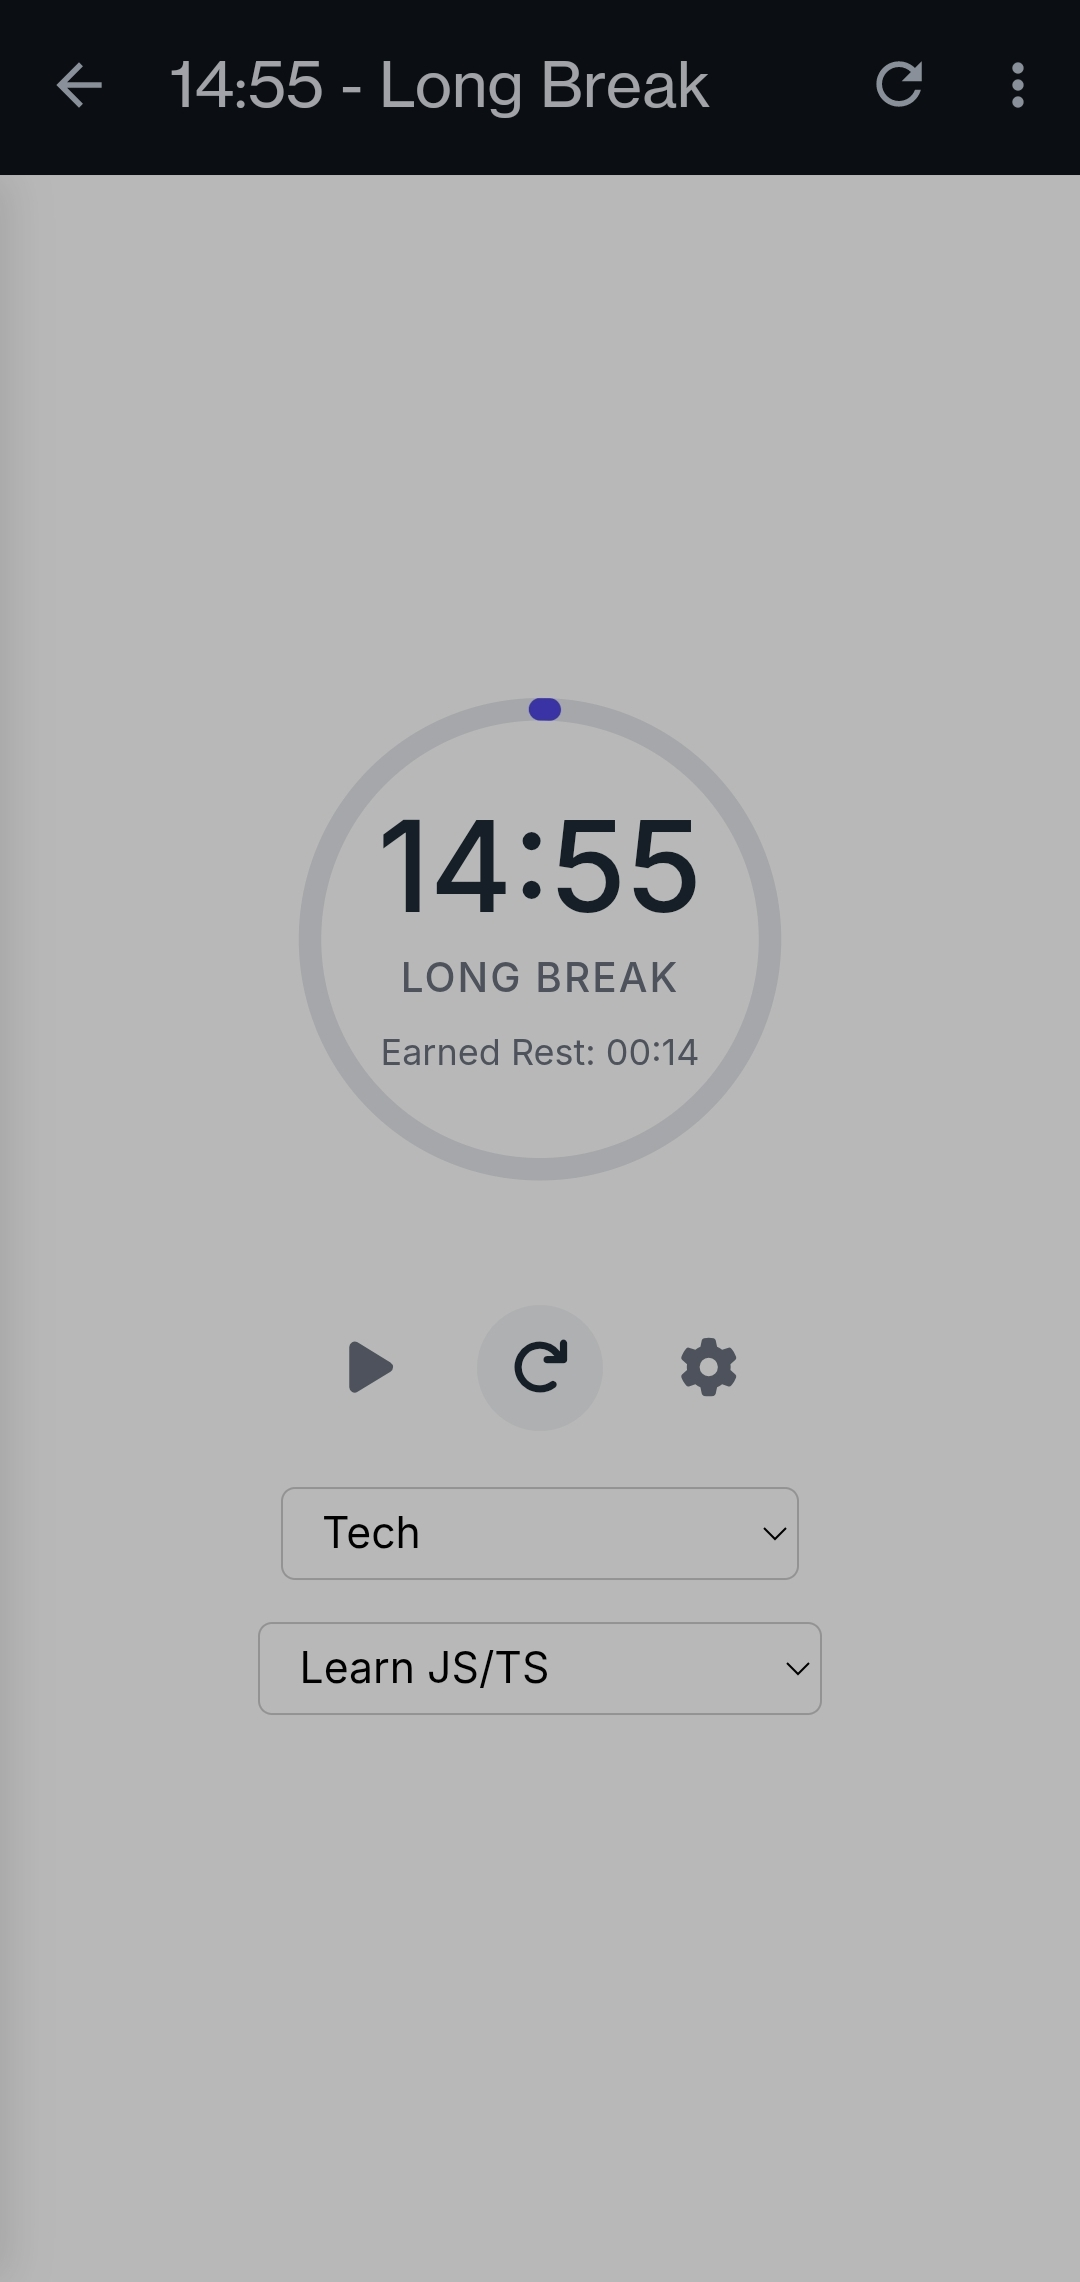
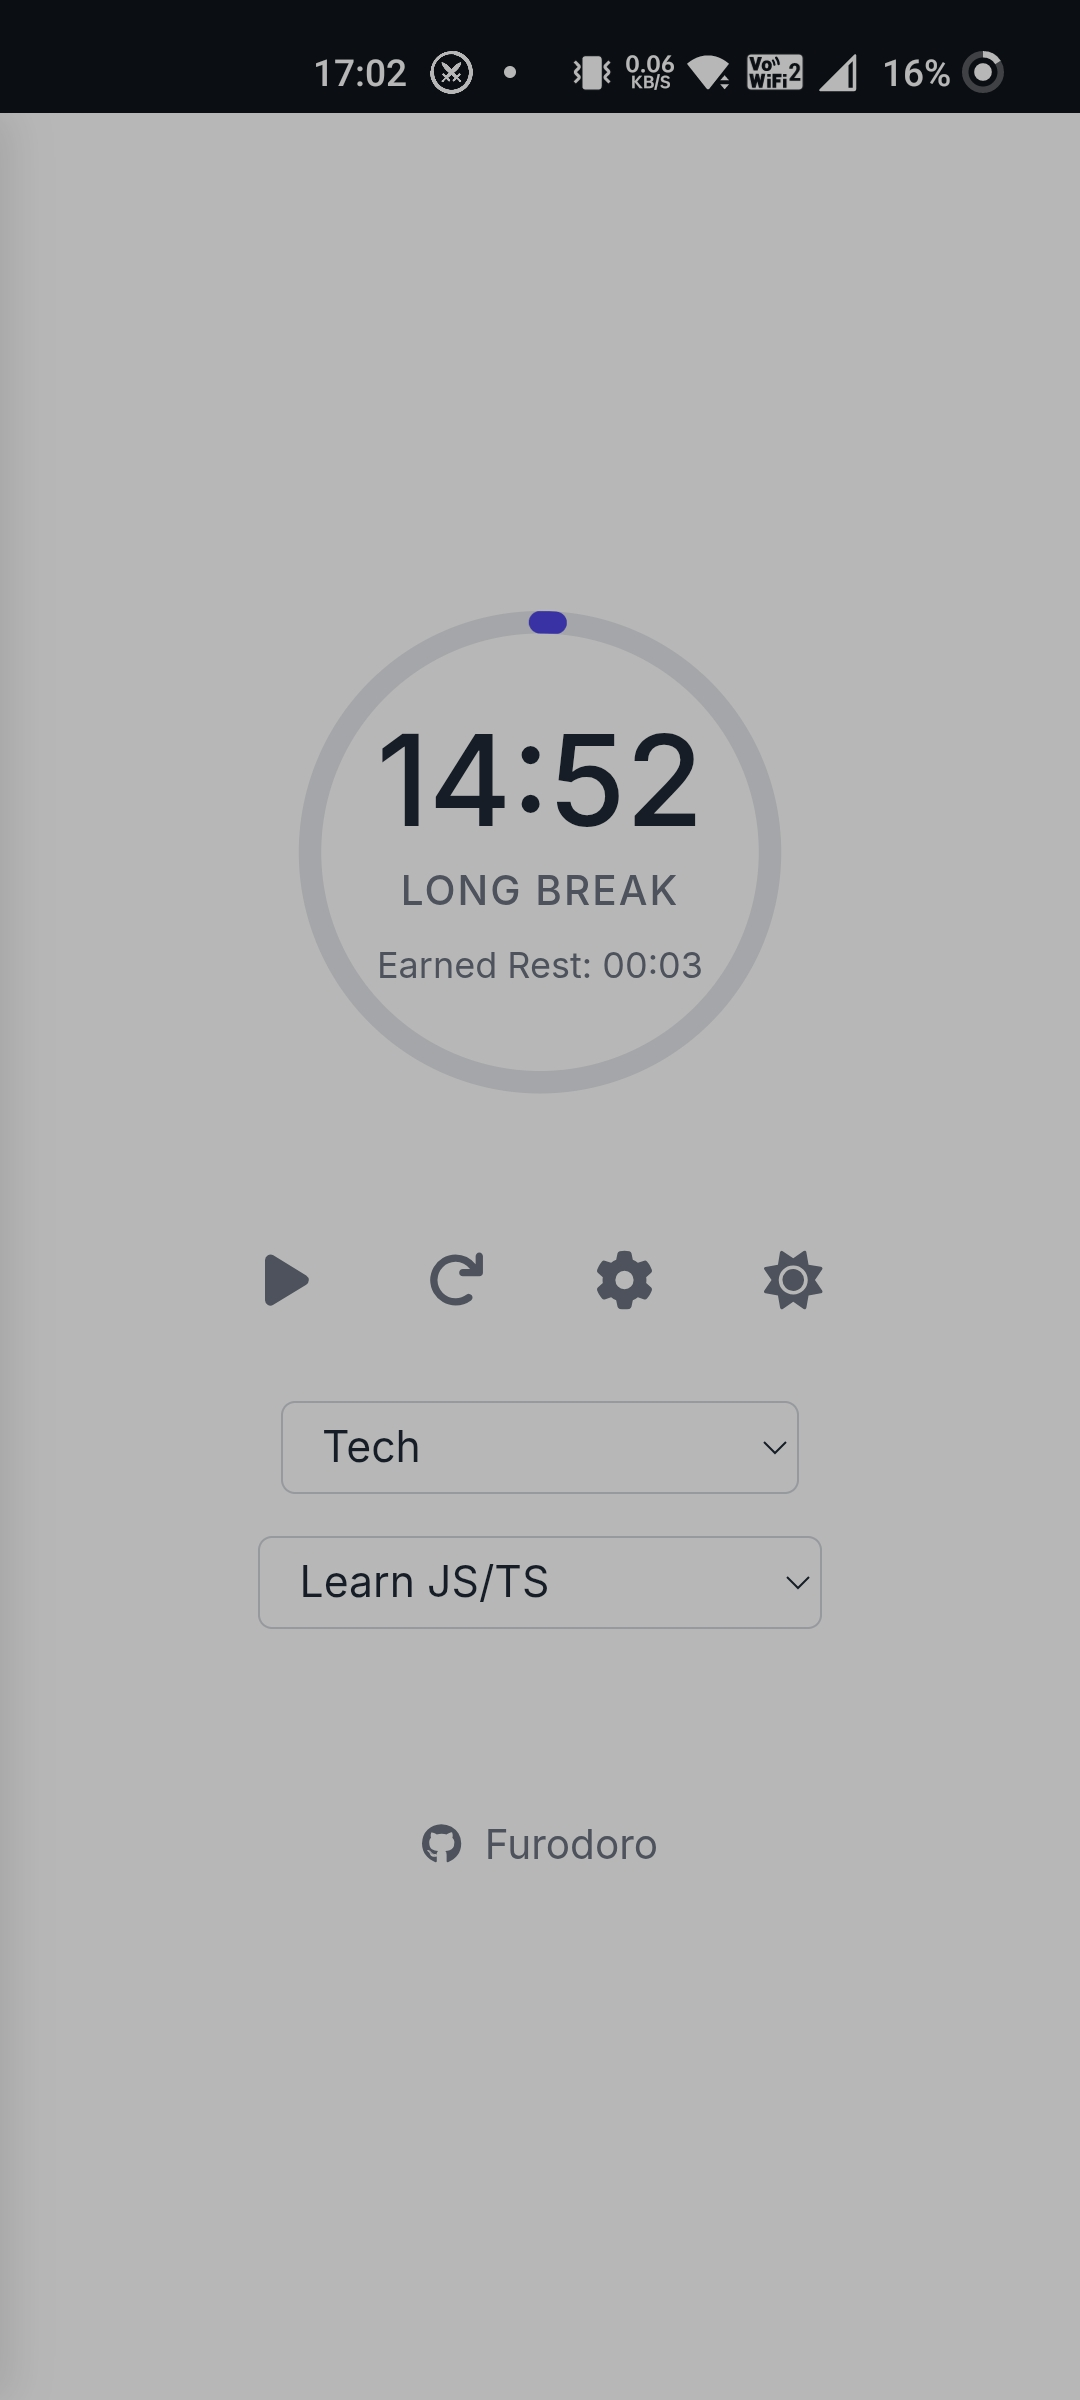
feat: add dark mode

diff --git a/src/style.css b/src/style.css
@@ -3,16 +3,21 @@
 
 :root {
     /* Color Palette */
-    --background-color: #ffffff;
-    --text-color: #1f2937;
-    --text-color-light: #6b7280;
-    --primary-color: #4f46e5;
-    --primary-color-light: #e0e7ff;
-    --progress-background: #e5e7eb;
-    --border-color: #d1d5db;
-    --settings-bg: #f9fafb;
-    --button-hover-bg: #f3f4f6;
-    --button-active-bg: #e5e7eb;
+    --background-color: #000000;        /* AMOLED Black */
+    --container-bg: #111111;          /* Very dark grey for container */
+    --text-color: #ffffff;            /* White text */
+    --text-color-secondary: #a0aec0;  /* Lighter grey for secondary text */
+    --text-color-tertiary: #cbd5e0;   /* Slightly brighter grey for labels etc. */
+    --primary-color: #6366f1;          /* Accent color (same as before, adjusted dark mode) */
+    --primary-color-hover: #4338ca;    /* Darker accent for hover */
+    --primary-color-focus-shadow: rgba(99, 102, 241, 0.3); /* Adjusted focus shadow */
+    --progress-background: #2a2a2a;      /* Dark grey progress background */
+    --border-color: #2a2a2a;          /* Dark border */
+    --settings-bg: #111111;          /* Match container */
+    --button-bg: #1f1f1f;             /* Dark grey button background */
+    --button-text-color: #cccccc;     /* Dimmer icon/text color */
+    --button-hover-bg: #333333;       /* Lighter grey on hover */
+    --button-hover-text-color: #e2e8f0; /* Brighter icon/text on hover */
 
     /* Sizes */
     --timer-size: 220px;
@@ -27,7 +32,7 @@
 
 body {
     font-family: 'Inter', sans-serif;
-    background-color: var(--background-color);
+    background-color: var(--background-color); /* Will be black by default */
     color: var(--text-color);
     display: flex;
     justify-content: center;
@@ -38,11 +43,29 @@ body {
     overflow-x: hidden; /* Prevent horizontal scroll */
 }
 
+/* Define Light Theme Variables */
+body.light-mode {
+    --background-color: #ffffff;
+    --container-bg: #ffffff; /* Light container */
+    --text-color: #1f2937;
+    --text-color-secondary: #6b7280;
+    --text-color-tertiary: #6b7280; /* Same as secondary in light */
+    --primary-color: #4f46e5;
+    --primary-color-hover: #4338ca;
+    --primary-color-focus-shadow: rgba(79, 70, 229, 0.3); /* Original focus shadow */
+    --progress-background: #e5e7eb;
+    --border-color: #d1d5db;
+    --settings-bg: #f9fafb;
+    --button-bg: transparent;
+    --button-text-color: #6b7280; /* text-color-light */
+    --button-hover-bg: #f3f4f6;
+    --button-hover-text-color: #1f2937; /* text-color */
+}
+
 .app-container {
     display: flex;
     flex-direction: column;
     align-items: center;
-    padding: 20px;
     width: 90%;
     max-width: 400px;
 }
@@ -95,7 +118,7 @@ body {
 .time-display {
     font-size: 3.5rem;
     font-weight: 500;
-    color: var(--text-color);
+    color: var(--text-color); /* Primary text color */
     line-height: 1;
     margin-bottom: 8px;
     user-select: none;
@@ -104,7 +127,7 @@ body {
 .mode-indicator {
     font-size: 1rem;
     font-weight: 500;
-    color: var(--text-color-light);
+    color: var(--text-color-secondary);
     text-transform: uppercase;
     letter-spacing: 0.05em;
     user-select: none;
@@ -113,7 +136,7 @@ body {
 
 .stats-display-main {
     font-size: 0.9rem;
-    color: var(--text-color-light);
+    color: var(--text-color-secondary);
     user-select: none;
     min-height: 1.2em; /* Reserve space even when empty */
     text-align: center;
@@ -128,9 +151,9 @@ body {
 }
 
 .control-button {
-    background-color: transparent;
+    background-color: var(--button-bg);
     border: none;
-    color: var(--text-color-light);
+    color: var(--button-text-color);
     font-size: 1.5rem;
     padding: 10px;
     cursor: pointer;
@@ -144,11 +167,11 @@ body {
 }
 
 .control-button:hover {
-    background-color: var(--button-hover-bg);
-    color: var(--text-color);
+    background-color: var(--button-hover-bg); /* Use variable */
+    color: var(--button-hover-text-color); /* Use variable */
 }
 
-.control-button:active {
+body.light-mode .control-button:active { /* Specific active style for light mode */
     background-color: var(--button-active-bg);
 }
 
@@ -163,7 +186,7 @@ body {
     width: 85%; /* Adjust width as needed */
     max-width: 320px; /* Max width on larger screens */
 
-    background-color: var(--settings-bg);
+    background-color: var(--settings-bg); /* Use variable */
     /* Add border-right */
     border-right: 1px solid var(--border-color);
 
@@ -191,7 +214,7 @@ body {
     font-size: 1.25rem;
     font-weight: 500;
     margin-bottom: 30px;
-    color: var(--text-color);
+    color: var(--text-color); /* Use variable */
 }
 
 /* Optional: Add a close button inside the settings panel */
@@ -202,7 +225,7 @@ body {
     background: none;
     border: none;
     font-size: 1.5rem;
-    color: var(--text-color-light);
+    color: var(--text-color-secondary); /* Use variable */
     cursor: pointer;
     padding: 5px;
     line-height: 1; /* Adjust for better vertical alignment */
@@ -218,7 +241,7 @@ body {
 }
 
 .setting-item label {
-    color: var(--text-color-light);
+    color: var(--text-color-tertiary); /* Use variable */
     flex-shrink: 0;
     font-weight: 500;
 }
@@ -230,13 +253,13 @@ body {
     border-radius: 6px;
     font-size: 0.95rem;
     text-align: center;
-    background-color: var(--background-color);
-    color: var(--text-color);
+    background-color: var(--button-bg); /* Match button bg for consistency */
+    color: var(--text-color); /* Primary text color */
     transition: border-color 0.2s ease, box-shadow 0.2s ease;
 }
 .setting-item input[type="number"]:focus {
     outline: none;
-    border-color: var(--primary-color);
+    border-color: var(--primary-color); /* Use variable */
     box-shadow: 0 0 0 2px var(--primary-color-light);
 }
 
@@ -247,13 +270,13 @@ body {
 .setting-item span {
     display: inline-flex;
     align-items: center;
-    color: var(--text-color-light);
+    color: var(--text-color-tertiary); /* Use variable */
 }
 
 .apply-button {
     width: 100%;
     padding: 12px 20px;
-    background-color: var(--primary-color);
+    background-color: var(--primary-color); /* Use variable */
     color: #ffffff;
     border: none;
     border-radius: 8px;
@@ -264,7 +287,7 @@ body {
     transition: background-color 0.2s ease;
 }
 .apply-button:hover {
-    background-color: #4338ca; /* Darker indigo */
+    background-color: var(--primary-color-hover); /* Use variable */
 }
 
 .dropdown-container {
@@ -285,7 +308,7 @@ body {
 .dropdown-item label {
     margin-bottom: 5px;
     font-size: 0.9em;
-    color: #666;
+    color: var(--text-color-secondary); /* Use variable */
     font-weight: 500;
 }
 
@@ -293,18 +316,36 @@ body {
     padding: 6px 10px;
     border-radius: 5px;
     border: 1px solid #ccc;
+    border-color: var(--border-color); /* Use variable */
     min-width: 150px;
-    background-color: #fff;
+    background-color: var(--button-bg); /* Match button bg */
+    color: var(--text-color); /* Use variable */
     font-family: inherit;
     font-size: 0.95em;
     cursor: pointer;
 }
 
 .dropdown-item select:focus {
-    outline: none;
-    border-color: #4f46e5; /* Match theme color */
-    box-shadow: 0 0 0 2px rgba(79, 70, 229, 0.3);
+     outline: none;
+     border-color: var(--primary-color); /* Use variable */
+     box-shadow: 0 0 0 2px var(--primary-color-focus-shadow); /* Use variable */
 }
+
+
+/* Adjust icon for theme toggle */
+/* Default (Dark Mode) shows Sun Icon */
+#themeToggleBtn i {
+    content: "\f185"; /* Font Awesome sun icon unicode */
+    font-family: "Font Awesome 6 Free";
+    font-weight: 900;
+}
+/* Light Mode shows Moon Icon */
+body.light-mode #themeToggleBtn i {
+    content: "\f186"; /* Font Awesome moon icon unicode */
+    font-family: "Font Awesome 6 Free";
+    font-weight: 900;
+}
+
 
 /* Responsive Adjustments */
 @media (max-width: 480px) {
@@ -368,12 +409,12 @@ body {
 }
 
 .app-footer a {
-  color: #6b7280; /* Example color - adjust as needed */
+  color: var(--text-color-secondary); /* Use variable */
   text-decoration: none; /* Remove underline */
 }
 
 .app-footer a:hover {
-  color: #4f46e5; /* Example hover color - adjust as needed */
+  color: var(--primary-color); /* Use variable */
   text-decoration: underline; /* Add underline on hover */
 }
 

diff --git a/src/script.js b/src/script.js
@@ -30,7 +30,7 @@ let totalWorkTimeElapsed = 0; // Net work time accumulated (work seconds - break
 let grossWorkTimeAccumulated = 0; // Total seconds spent in 'work' mode during the current run
 let workRatio; // How many work units earn 1 break unit
 const breakRatio = 1; // How many break units are earned (usually 1)
-let currentTheme = localStorage.getItem('theme') || 'light';
+let currentTheme = localStorage.getItem('theme') || 'dark'; // Default to dark theme
 
 // --- Constants ---
 const DEFAULT_WORK_TIME = 25;
@@ -46,33 +46,41 @@ let circumference = 0;
 // --- Utility Functions ---
 function applyTheme(theme) {
     const themeIcon = themeToggleBtn ? themeToggleBtn.querySelector('i') : null;
-    if (theme === 'dark') {
-        document.body.classList.add('dark-mode');
-        if (themeIcon) {
-            themeIcon.classList.remove('fa-moon');
-            themeIcon.classList.add('fa-sun');
-        }
-        if (themeToggleBtn) {
-             themeToggleBtn.setAttribute('aria-label', 'Switch to Light Theme');
-        }
-    } else {
-        document.body.classList.remove('dark-mode');
+    const themeColorMeta = document.querySelector('meta[name="theme-color"]');
+
+    // Remove the light-mode class by default (for dark theme)
+    document.body.classList.remove('light-mode');
+
+    if (theme === 'light') {
+        // Add light-mode class only for the light theme
+        document.body.classList.add('light-mode');
         if (themeIcon) {
             themeIcon.classList.remove('fa-sun');
             themeIcon.classList.add('fa-moon');
         }
-         if (themeToggleBtn) {
-            themeToggleBtn.setAttribute('aria-label', 'Switch to Dark Theme');
+        if (themeToggleBtn) {
+             themeToggleBtn.setAttribute('aria-label', 'Switch to Dark Theme');
         }
-    }
-    const themeColorMeta = document.querySelector('meta[name="theme-color"]');
-    if (themeColorMeta) {
-        themeColorMeta.content = theme === 'dark' ? '#111827' : '#4f46e5';
+        if (themeColorMeta) {
+            themeColorMeta.content = '#ffffff'; // Light theme background color (or primary if preferred)
+        }
+    } else {
+        // Dark theme (default)
+        if (themeIcon) {
+            themeIcon.classList.remove('fa-moon');
+            themeIcon.classList.add('fa-sun');
+        }
+         if (themeToggleBtn) {
+            themeToggleBtn.setAttribute('aria-label', 'Switch to Light Theme');
+        }
+        if (themeColorMeta) {
+            themeColorMeta.content = '#000000'; // Dark theme background color
+        }
     }
 }
 
 function toggleTheme() {
-    currentTheme = currentTheme === 'light' ? 'dark' : 'light';
+    currentTheme = currentTheme === 'dark' ? 'light' : 'dark'; // Toggle logic reversed
     localStorage.setItem('theme', currentTheme);
     applyTheme(currentTheme);
 }

diff --git a/index.html b/index.html
@@ -55,10 +55,10 @@
             <button id="settingsBtn" class="control-button" aria-label="Open Settings">
                 <i class="fas fa-cog"></i>
             </button>
-            <!-- Theme toggle button - maybe add this later? -->
-            <!-- <button id="themeToggleBtn" class="control-button" aria-label="Switch to Dark Theme">
+            <!-- Theme toggle button -->
+            <button id="themeToggleBtn" class="control-button" aria-label="Switch Theme">
                 <i class="fas fa-moon"></i>
-            </button> -->
+            </button>
         </div>
 
         <!-- Task Selection Dropdowns -->

diff --git a/readme.md b/readme.md
@@ -55,11 +55,11 @@ A simple, clean Pomodoro timer web application designed to help you focus, with 
 
 ## Future Ideas
 
-*   Add sound notifications for session completion.
-*   Implement the theme toggle button.
-*   Persist selected task across sessions.
-*   Add more robust error handling for API calls.
-*   Improve PWA offline capabilities.
+- [ ]   Add sound notifications for session completion.
+- [x]   Implement the theme toggle button.
+- [ ]   Persist selected task across sessions.
+- [ ]   Add more robust error handling for API calls.
+- [ ]   Improve PWA offline capabilities.
 
 ---
 
